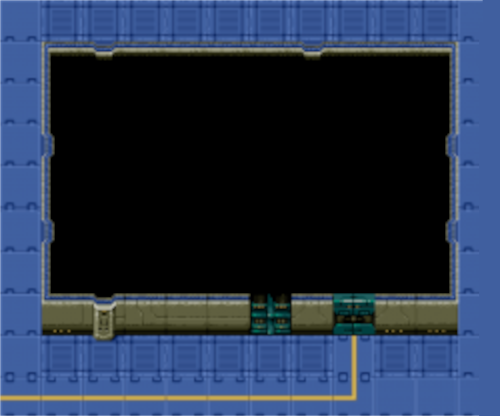
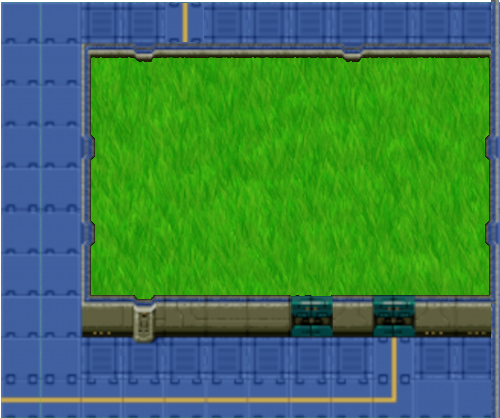
organized rooms

diff --git a/public/game.js b/public/game.js
@@ -19,7 +19,7 @@ class Necro extends Phaser.Scene {
         create() {
                 const syringe = new Syringe({
                         scene: this,
-                        x: config.width - config.width / 4 + 25,
+                        x: config.width - config.width / 4 + 50,
                         y: config.height / 2,
                         texture: 'syringe',
                         plantTextures: this.plantTextures
@@ -31,48 +31,55 @@ class Necro extends Phaser.Scene {
                         texture: 'room',
                         outputSyringe: syringe,
                         plantTextures: this.plantTextures
-                }).setScale(0.75)
+                }).setScale(0.8)
 
                 this.add.existing(syringe)
                 this.add.existing(garden)
+
+                this.add.image(
+                        config.width / 4 + 2,
+                        config.height - config.height / 8,
+                        'room'
+                )
         }
 }
 
 class Syringe extends Phaser.GameObjects.Sprite {
 
         needle
-        fluid = []
-        fluidSprites = []
-        corpsePos = {
+        fluid = [] // strings describing the fluid in the syringe
+        fluidSprites = [] // sprites that fill the Syringe
+        corpsePos = { // under the needle
                 x: this.x + 15,
                 y: this.y + 240
         }
-        maxSize = 5
-        sections = [-30, 30, 90, 150, 210]
+        zombieScale = 0.6
 
         constructor(config) {
                 super(config.scene, config.x, config.y, config.texture)
                 this.config = config
-                this.needle = this.scene.add.image(this.corpsePos.x, this.y + 50, 'needle')
+                this.needle = this.scene.add.image(
+                        this.corpsePos.x, this.y + 50, 'needle')
+                this.loadCorpse()
+        }
+
+        loadCorpse() {
                 this.corpse = this.scene.add.image(
-                        this.corpsePos.x, this.corpsePos.y, 'rat'
-                ).setScale(2)
+                        this.corpsePos.x - 25, this.corpsePos.y, 'rat'
+                ).setScale(this.zombieScale)
                 this.corpse.angle = 180
         }
 
         fill(color) {
-                if (this.fluid.length >= this.maxSize) {
+                const sections = [-30, 30, 90, 150, 210]
+                if (this.fluid.length >= sections.length - 1) {
                         this.fire()
                         return
                 }
                 this.fluid.push(color)
-                this.addFluid()
-        }
-
-        addFluid() {
-                const yPos = this.y - this.sections[this.fluid.length - 1]
-                this.fluidSprites.push(this.scene.add.image(this.x + 15, yPos, 'fluid')
-                        .setScale(2, 4).setDepth(100))
+                this.fluidSprites.push(this.scene.add.image(this.x + 15,
+                        this.y - sections[this.fluid.length - 1],
+                        'fluid').setScale(2, 4).setDepth(100))
         }
 
         fire() {
@@ -85,7 +92,7 @@ class Syringe extends Phaser.GameObjects.Sprite {
                         y: this.corpsePos.y,
                         texture: 'rat',
                         fluid: this.fluid
-                }).setScale(2)
+                }).setScale(this.zombieScale)
                 this.scene.add.existing(zombie)
         }
 }
@@ -99,7 +106,21 @@ class Zombie extends Phaser.GameObjects.Sprite {
 
         addEffects(data) {
                 console.log(data)
-                // if (data['yellow']) this.postFx.addBloom()
+                const colorFX = this.preFX.addColorMatrix()
+                if (data['yellow']) colorFX.brightness(1 - data['yellow'] * 0.2, true)
+                if (data['blue']) colorFX.contrast(data['blue'], true)
+                if (data['red']) this.addGlowFX(10 * data['red'])
+        }
+
+        addGlowFX(strength) {
+                this.preFX.setPadding(32);
+                this.scene.tweens.add({
+                        targets: this.preFX.addGlow(),
+                        outerStrength: strength,
+                        yoyo: true,
+                        loop: -1,
+                        ease: 'sine.inout'
+                });
         }
 
         parseInput(fluid) {
@@ -130,7 +151,7 @@ class Garden extends Phaser.GameObjects.Sprite {
                         this.scene.add.image(plant.x, plant.y, plant.texture).setDepth(100)
                 ))
                 newPlants.forEach((plant) => {
-                        plant.setScale(0.1)
+                        plant.setScale(0.075)
                         plant.setInteractive()
                         plant.on('pointerdown', () =>
                                 this.outputSyringe.fill(plant.texture.key)
@@ -141,10 +162,11 @@ class Garden extends Phaser.GameObjects.Sprite {
 
         createBoxes(width = 3, height = 2) {
                 let i = 0
-                let pushRect = (x, y) => {
-                        const boxPos = [this.x / 4 + x * 100, this.y / 4 + y * 100]
-                        this.boxes[x][y] =
-                                new Phaser.Geom.Rectangle(...boxPos, 100, 100);
+                let pushRectCenter = (x, y) => {
+                        this.boxes[x][y] = new Phaser.Geom.Rectangle(
+                                this.x / 4 + 40 + x * 100,
+                                this.y / 4 - 20 + y * 100,
+                                100, 100);
                         this.plants.push({
                                 x: this.boxes[x][y].centerX,
                                 y: this.boxes[x][y].centerY,
@@ -155,7 +177,7 @@ class Garden extends Phaser.GameObjects.Sprite {
                 for (let x = 0; x < width; x++) {
                         this.boxes[x] = [];
                         for (let y = 0; y < height; y++)
-                                pushRect(x, y)
+                                pushRectCenter(x, y)
                 }
         }
 }
@@ -163,7 +185,7 @@ class Garden extends Phaser.GameObjects.Sprite {
 const config = {
         width: 600,
         height: 600,
-        backgroundColor: '#405fa0',
+        backgroundColor: '#979c99',
         type: Phaser.AUTO,
         scene: Necro
 };
